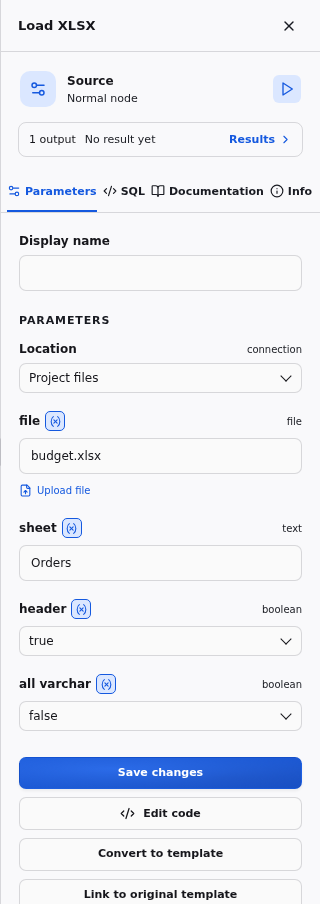
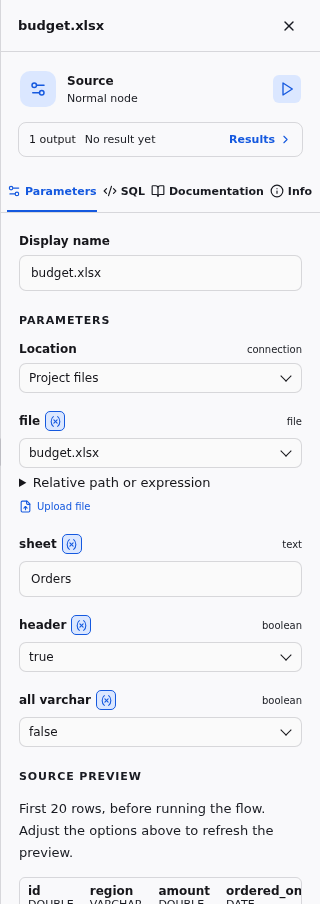
test(sources): update import fixtures and documentation capture

diff --git a/frontend/docs/screenshots.spec.ts b/frontend/docs/screenshots.spec.ts
@@ -1,3 +1,4 @@
+import { execFileSync } from "node:child_process";
 import { test, expect, type Locator, type Page } from "@playwright/test";
 import { mkdir } from "node:fs/promises";
 import { readFileSync } from "node:fs";
@@ -508,22 +509,38 @@ test("capture project variables, a parameter binding and a run confirmation", as
   await capture(page, "variable-expression");
 });
 
-test("capture a file node reading project files", async ({ page }) => {
+test("capture a file node reading project files", async ({
+  page,
+}, testInfo) => {
   const created = await page.request.post("/api/projects", {
     data: { name: "Budget" },
   });
   expect(created.ok()).toBeTruthy();
   const worktree = await created.json();
+  const workbook = testInfo.outputPath("budget.xlsx");
+  execFileSync("../.venv/bin/python", ["../tests/xlsx_fixture.py", workbook]);
+  const endpoint = `/api/worktrees/${worktree.id}`;
+  const snapshot = await (await page.request.get(endpoint)).json();
+  snapshot.bundle.extensions = { excel: { source: "core", enabled: true } };
+  await page.request.put(endpoint, {
+    data: { revision: snapshot.revision, bundle: snapshot.bundle },
+  });
   await page.goto(`/worktrees/${worktree.id}/flow`);
   await page.getByRole("button", { name: "Load XLSX", exact: true }).click();
   const inspector = page.locator(".inspector");
   await expect(
     inspector.getByRole("combobox", { name: "Location", exact: true }),
   ).toHaveValue("");
-  await autosaved(page, async () => {
-    await inspector.getByRole("textbox", { name: /file/ }).fill("budget.xlsx");
-    await inspector.getByRole("textbox", { name: /sheet/ }).fill("Orders");
-  });
+  await inspector
+    .getByLabel("Upload file", { exact: true })
+    .setInputFiles(workbook);
+  await expect(inspector.getByRole("combobox", { name: /^file/ })).toHaveValue(
+    /budget\.xlsx$/,
+  );
+  await autosaved(page, () =>
+    inspector.getByRole("textbox", { name: /sheet/ }).fill("Orders"),
+  );
+  await expect(inspector.locator(".source-sample")).toContainText("North");
   await expect
     .poll(
       async () =>
@@ -726,10 +743,11 @@ test("capture a PostgreSQL connection test and Load table", async ({
       name: "table",
       exact: true,
     });
-    await expect(
-      page.locator(`datalist[id="${await table.getAttribute("list")}"] option`),
-    ).not.toHaveCount(0);
-    await autosaved(page, () => table.fill("orders"));
+    await inspector
+      .getByRole("combobox", { name: "schema", exact: true })
+      .selectOption("public");
+    await expect(table.locator("option[value=orders]")).toHaveCount(1);
+    await autosaved(page, () => table.selectOption("orders"));
     await expect
       .poll(
         async () =>

diff --git a/frontend/e2e/project-files.spec.ts b/frontend/e2e/project-files.spec.ts
@@ -43,9 +43,9 @@ test("a member reads an upload and exports it as project files, without any conn
       mimeType: "text/csv",
       buffer: Buffer.from("id,amount\n1,10\n2,20\n"),
     });
-    await expect(inspector.getByRole("textbox", { name: /file/ })).toHaveValue(
-      /budget\.csv$/,
-    );
+    await expect(
+      inspector.getByRole("combobox", { name: /^file/ }),
+    ).toHaveValue(/budget\.csv$/);
     await expect
       .poll(
         async () =>

diff --git a/tests/test_xlsx.py b/tests/test_xlsx.py
@@ -45,7 +45,13 @@ def source_bundle(params=None):
     return enable_excel(
         {
             "flow": {
-                "nodes": [{"id": "source", "template": "load_xlsx", "params": params or {}}],
+                "nodes": [
+                    {
+                        "id": "source",
+                        "template": "load_xlsx",
+                        "params": {"file": "workbook.xlsx", **(params or {})},
+                    }
+                ],
                 "edges": [],
             },
             "templates": BUILTINS.copy(),
@@ -73,7 +79,7 @@ def project_files(instance, worktree):
 def replace_source(instance, worktree, **params):
     snapshot = instance.projects.snapshot(worktree)
     bundle = snapshot["bundle"]
-    bundle["flow"]["nodes"][0]["params"] = params
+    bundle["flow"]["nodes"][0]["params"] = {"file": "workbook.xlsx", **params}
     instance.projects.write(worktree, snapshot["revision"], bundle_to_files(bundle))
 
 
